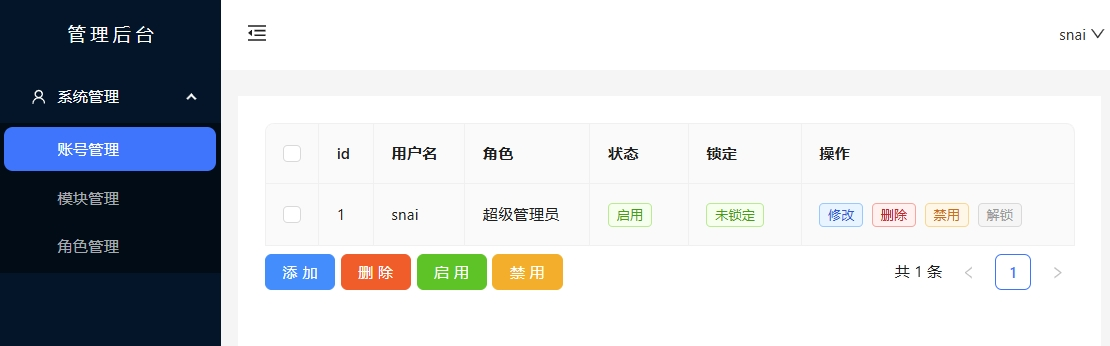
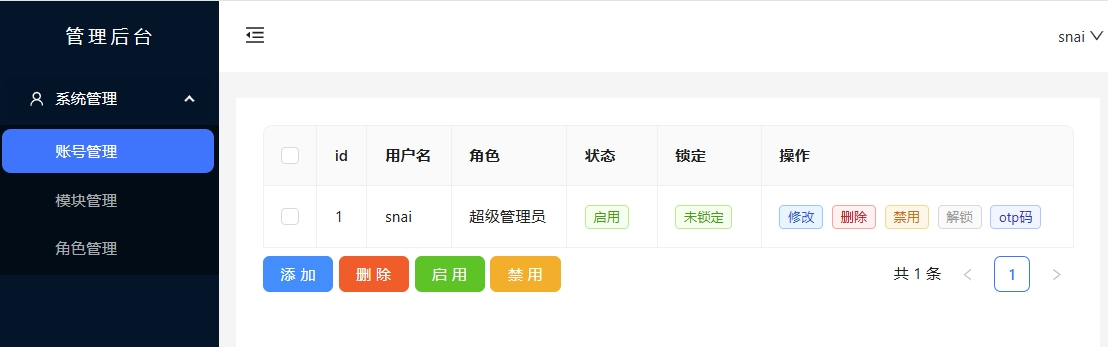
说明

diff --git a/README.md b/README.md
@@ -1,10 +1,10 @@
 # Snai.CMS.UI
 ### 内容管理UI
-    技术栈：Vue3，Ant Design Vue，Axios，分页  
+    技术栈：Vue3，Ant Design Vue，Axios，分页，otp动态码登录  
 
 ### 功能  
     登录，登出，修改密码(已完成)  
-    用户管理(用户列表、添、删、改、禁/启用、解锁)(已完成)  
+    用户管理(用户列表、添、删、改、禁/启用、解锁、otp动态码)(已完成)  
     模块管理(模块列表、添、删、改、禁/启用)(已完成)  
     角色管理(角色列表、添、删、改、禁/启用、分配权限)(已完成)  
     
